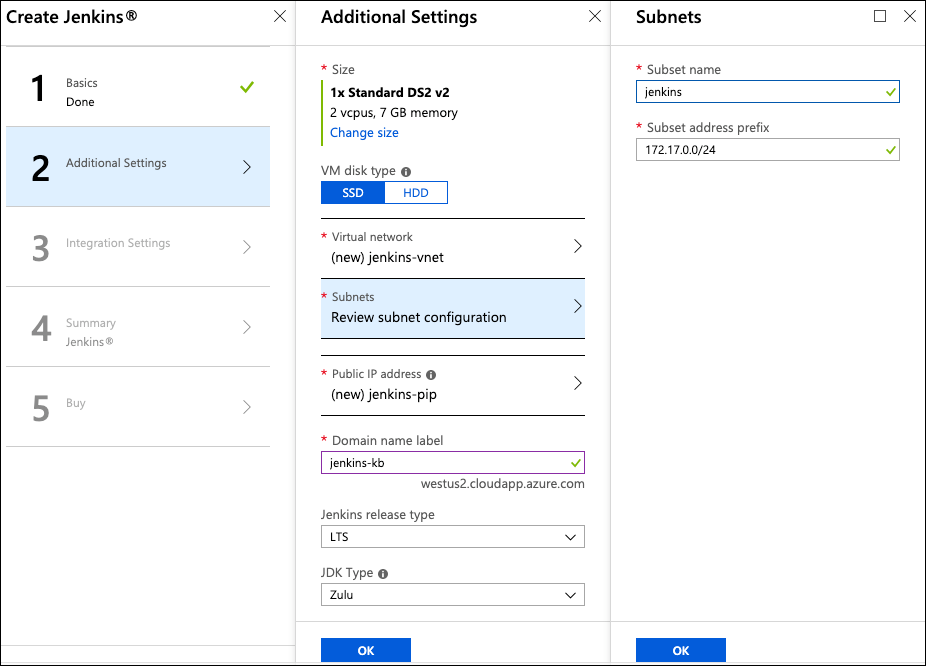
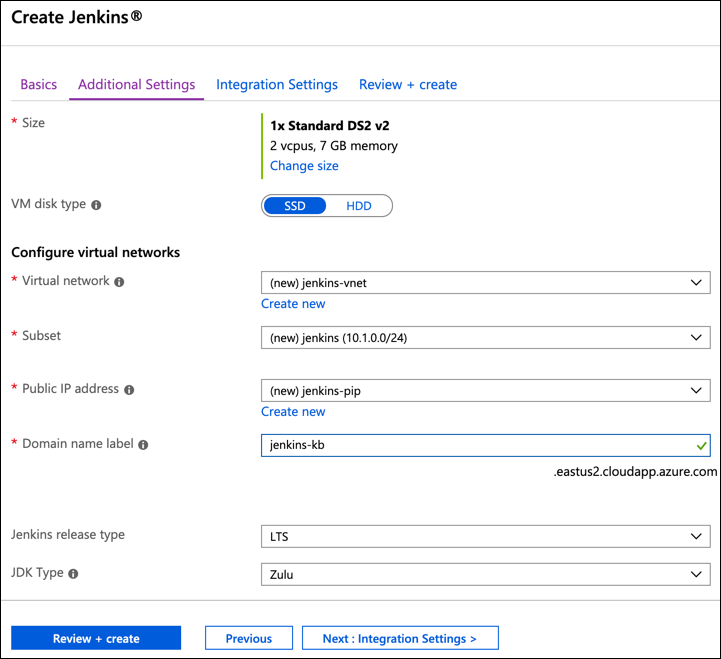
Before the HOL updates

diff --git a/Hands-on lab/Before the HOL.md b/Hands-on lab/Before the HOL.md
@@ -9,7 +9,7 @@ Before the hands-on lab setup guide
 </div>
 
 <div class="MCWHeader3">
-April 2019
+August 2019
 </div>
 
 Information in this document, including URL and other Internet Web site references, is subject to change without notice. Unless otherwise noted, the example companies, organizations, products, domain names, e-mail addresses, logos, people, places, and events depicted herein are fictitious, and no association with any real company, organization, product, domain name, e-mail address, logo, person, place or event is intended or should be inferred. Complying with all applicable copyright laws is the responsibility of the user. Without limiting the rights under copyright, no part of this document may be reproduced, stored in or introduced into a retrieval system, or transmitted in any form or by any means (electronic, mechanical, photocopying, recording, or otherwise), or for any purpose, without the express written permission of Microsoft Corporation.
@@ -41,12 +41,9 @@ Microsoft and the trademarks listed at <https://www.microsoft.com/en-us/legal/in
 
 ## Requirements
 
-1. Microsoft Azure subscription must be pay-as-you-go or MSDN
-
+1. Microsoft Azure subscription must be pay-as-you-go or MSDN.
    - Trial subscriptions will *not* work.
-
 2. Linux virtual machine configured with:
-
    - Visual Studio Code
    - Azure CLI
    - Docker
@@ -65,15 +62,23 @@ In this exercise, you will set up your environment for use in the rest of the ha
 
 In this task, you will create an Azure resource group for the resources used throughout this lab.
 
-1. In the [Azure Portal](https://portal.azure.com/), select **Resource groups**, select **+Add**, and then enter the following in the Create an empty resource group blade:
+1. In the [Azure Portal](https://portal.azure.com/), select **Resource groups** from the left-hand menu and then select **+Add**
 
-    - **Name**: Enter hands-on-lab-SUFFIX.
+    ![Resource groups is highlighted in the navigation pane of the Azure portal and + Add is highlighted on the Resource groups blade.](media/resource-groups-add.png "Add Resource Group")
+
+2. On the Create a resource group **Basics** tab, enter the following:
+
     - **Subscription**: Select the subscription you are using for this hands-on lab.
-    - **Resource group location**: Select the region you are using for this hands-on lab.
+    - **Resource group**: Enter **hands-on-lab-SUFFIX** as the name of the new resource group.
+    - **Region**: Select the region you are using for this hands-on lab.
 
-    ![Resource groups is highlighted in the navigation pane of the Azure portal, + Add is highlighted in the Resource groups blade, and \"hands-on-labs\" is entered into the Resource group name textbox on the Resource Group, Create an empty resource group blade.](media/create-resource-group.png "Azure Portal")
+    ![The values specified above are entered into the Create a resource group Basics tab.](media/create-resource-group.png "Create resource group")
 
-2. Select **Create**.
+3. Select **Review + Create**.
+
+4. On the **Review + create** tab, ensure the Validation passed message is displayed and then select **Create**.
+
+    ![The Create a resource group Review + create tab is displayed with the Validation passed message.](media/create-resource-group-review-create.png "Create resource group")
 
 ### Task 2: Create a development virtual machine
 
@@ -96,57 +101,56 @@ In this task, you will provision a Linux virtual machine (VM) running Ubuntu Ser
     - **Admin Username**: Accept the default value, demouser.
     - **Admin Password**: Accept the default value, Password.1!!
     - Check the box to agree to the Azure Marketplace terms and conditions.
-    - Select **Purchase**.
 
     ![The Custom deployment blade displays, and the information above is entered on the Custom deployment blade.](media/azure-custom-deployment.png "Custom deployment blade")
 
-3. It can take about 20 minutes to deploy the Lab VM. You can move on to the next task while the VM is deploying.
+3. Select **Purchase**.
+
+> It can take about 20 minutes to deploy the Lab VM. You can move on to the next task while the VM is deploying.
 
 ### Task 3: Provision a Jenkins server
 
 In this task, you will provision an Azure Linux VM, which will serve as your Jenkins server for this hands-on lab.
 
-1. In the Azure portal, select **+ Create a resource**, enter "Jenkins" into the **Search the Marketplace** box, select the **Jenkins** compute item from the results, and then select **Create**.
+1. In the Azure portal, select **+ Create a resource**, enter "jenkins" into the **Search the Marketplace** box, select the **Jenkins** compute item from the results, and then select **Create**.
 
     ![+ Create a resource is highlighted in the navigation pane of the Azure portal, and Everything is highlighted to the right. On the Everything blade to the right, jenkins is highlighted in the search box, and the Jenkins row is highlighted in the search results.](media/create-resource-jenkins.png "Azure Portal")
 
-2. On the **Create Jenkins Basics** blade, enter the following:
+2. On the **Create Jenkins Basics** tab, enter the following:
 
-    - **Name:** Enter **Jenkins**
-    - **Username:** Enter **jenkinsadmin**
+    - **Name:** Enter **Jenkins**.
+    - **User name:** Enter **jenkinsadmin**.
     - **Authentication type:** Select **Password**
     - **Password:** Enter **Password.1!!**
     - **Subscription:** Select the subscription you are using for this hands-on lab.
-    - **Resource group:** Select Create new, and enter "jenkins-SUFFIX" (Note: Jenkins will use a different resource group than the other resources in this lab).
-    - **Location:** Select the location you are using for resources in this hands-on lab.
-    - Select **OK** to proceed to the **Settings** blade.
+    - **Resource group:** Select the hands-on-lab-SUFFIX resource group from the list.
+    - **Region:** Select the region you are using for resources in this hands-on lab.
 
-    ![Basics is selected on the Create Jenkins blade, and the information above is entered on the Basics blade at right.](media/create-jenkins-basics.png "Configure settings on the Create Jenkins Basics blade")
+    ![The Create Jenkins Basic tab is displayed and the information above is entered into the form.](media/create-jenkins-basics.png "Configure settings on the Create Jenkins Basics blade")
 
-3. On the **Additional Settings** blade:
+3. Select **Next: Additional settings**, and on the **Additional Settings** tab set the following configuration:
 
-    - **Subnets**: Select **Configure subnets**, and then select **OK** on the **Subnets** blade to accept the defaults.
-    - **Domain name label**: Enter a unique value, such as **jenkins-SUFFIX**.
+    - **Size**: Accept the default VM size of **Standard DS2 v2**.
+    - **VM disk type**: Select **SSD**.
+    - **Virtual network**: Accept the default value of **(new) jenkins-vnet**.
+    - **Subnets**: Accept the default value of **(new) jenkins (10.x.0.0/24)**.
+    - **Domain name label**: Enter a globally unique value, such as **jenkins-SUFFIX**.
     - **Jenkins release type**: Select **LTS**.
     - **JDK Type**: Select **Zulu**.
 
-4. Select **OK** to proceed to the Integration Settings screen.
+    ![The Additional Settings tab is displayed and the values specified above are entered into the appropriate fields in the form.](media/create-jenkins-additional-settings.png "Jenkins VM Additional settings")
 
-    ![Additional Settings is selected on the Create Jenkins blade, SSD and Subnets are selected on the Additional Settings blade in the middle, and OK is selected on the Subnets blade at right.](media/create-jenkins-additional-settings.png "Proceed to the summary screen")
+4. Select **Next: Integration settings**.
 
-5. On the **Integration Settings** blade, select **OK**.
+5. On the **Integration Settings** blade accept the default settings and select **Review + create**.
 
-    ![Integration Settings is selected on the Create Jenkins blade. On the Jenkins Integration Settings blade to the right, VM is selected, and OK is selected at the bottom.](media/create-jenkins-integration-settings.png "Select OK on the Jenkins Integration Settings blade")
+    ![The Integration Settings tab is selected on the Create Jenkins blade, showing the default settings.](media/create-jenkins-integration-settings.png "Jenkins VM Integration settings")
 
-6. On the **Summary** blade, ensure the `Validation passed` message is displayed, and then select **OK**.
+6. On the **Review + create** blade, ensure the `Validation passed` message is displayed, and then select **Create**.
 
-    ![Summary is selected on the Create Jenkins blade. Validation information is displayed on the Summary blade to the right, and OK is selected at the bottom.](media/create-jenkins-summary.png "Ensure that validation passed")
+    ![Validation information is displayed on the Review + create tab, with the Validation passed message displayed.](media/create-jenkins-summary.png "Validation passed")
 
-7. Select **Create** on the **Buy** screen to provision the Jenkins server.
-
-    ![Buy is selected on the Create Jenkins blade. Provisioning information is displayed on the Create blade to the right, and Create is selected at the bottom.](media/create-jenkins-buy.png "Provision the Jenkins server")
-
-8. It can take 10+ minutes for the VM to provision. You can move on to the next task while you wait.
+7. It can take 10+ minutes for the VM to provision. You can move on to the next task while you wait.
 
 ### Task 4: Create GitHub account
 
@@ -176,7 +180,7 @@ In this task, you will fork the [OSS PaaS and DevOps MCW GitHub repository](http
 
 1. Log into your GitHub account, and then navigate to the [OSS PaaS and DevOps MCW GitHub repository](https://github.com/Microsoft/MCW-OSS-PaaS-and-DevOps).
 
-2. At the top right of the projects GitHub page, select **Fork**.
+2. At the top right of the project's GitHub page, select **Fork**.
 
     ![Fork is highlighted at the top right of the projects GitHub page.](media/github-fork.png "Select Fork")
 
